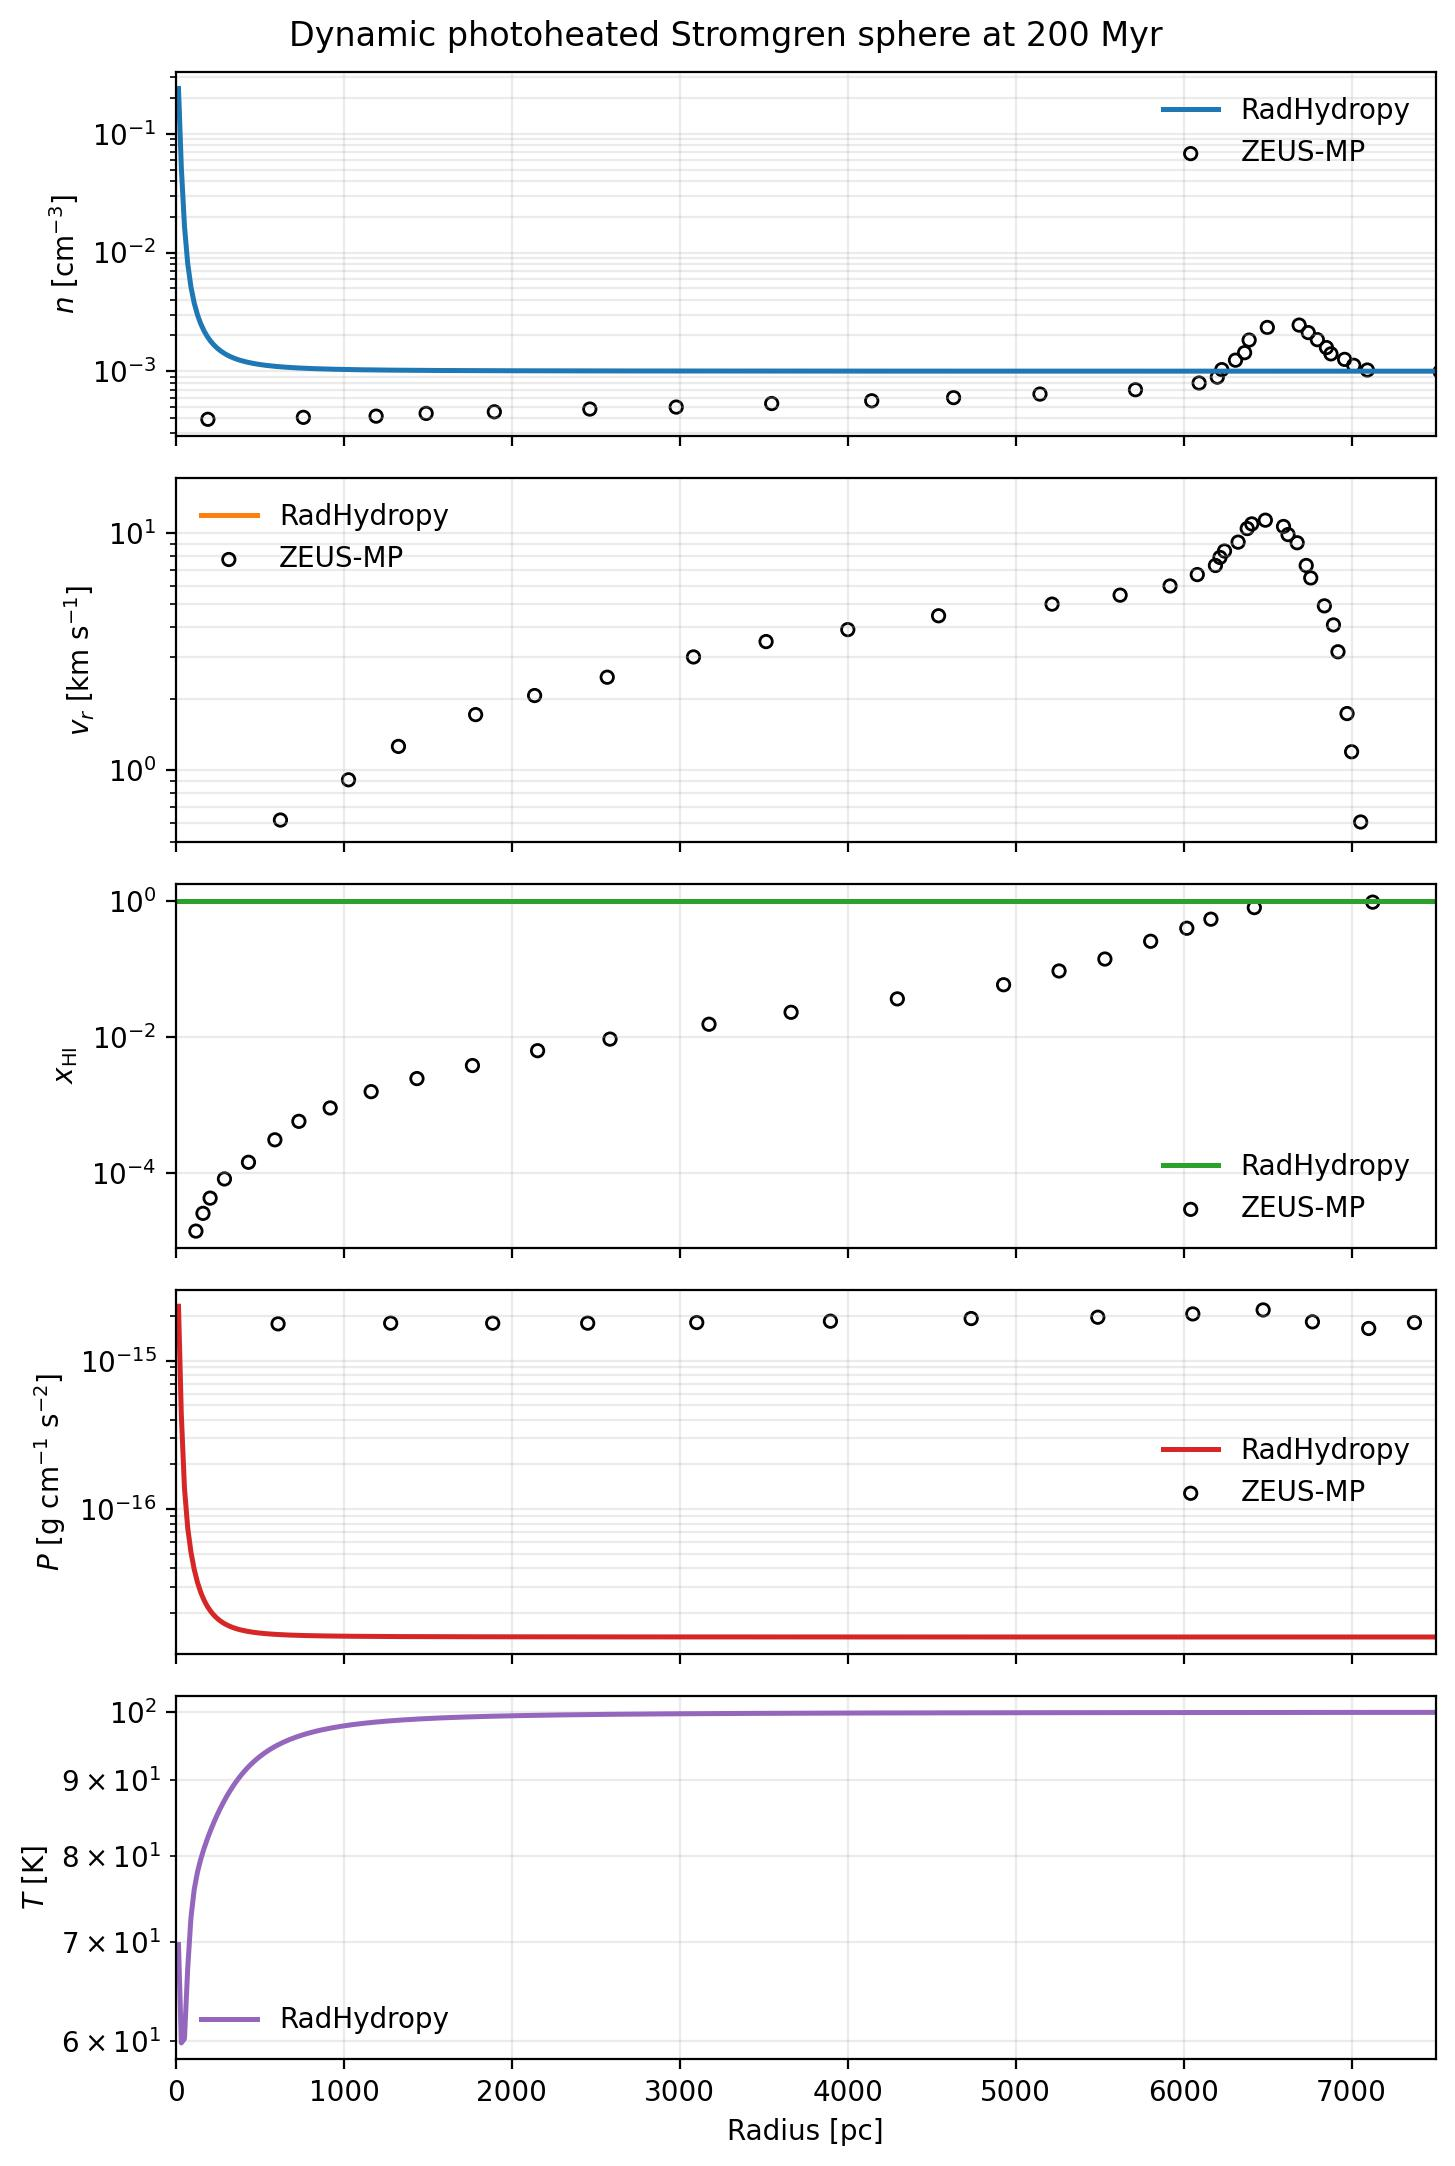
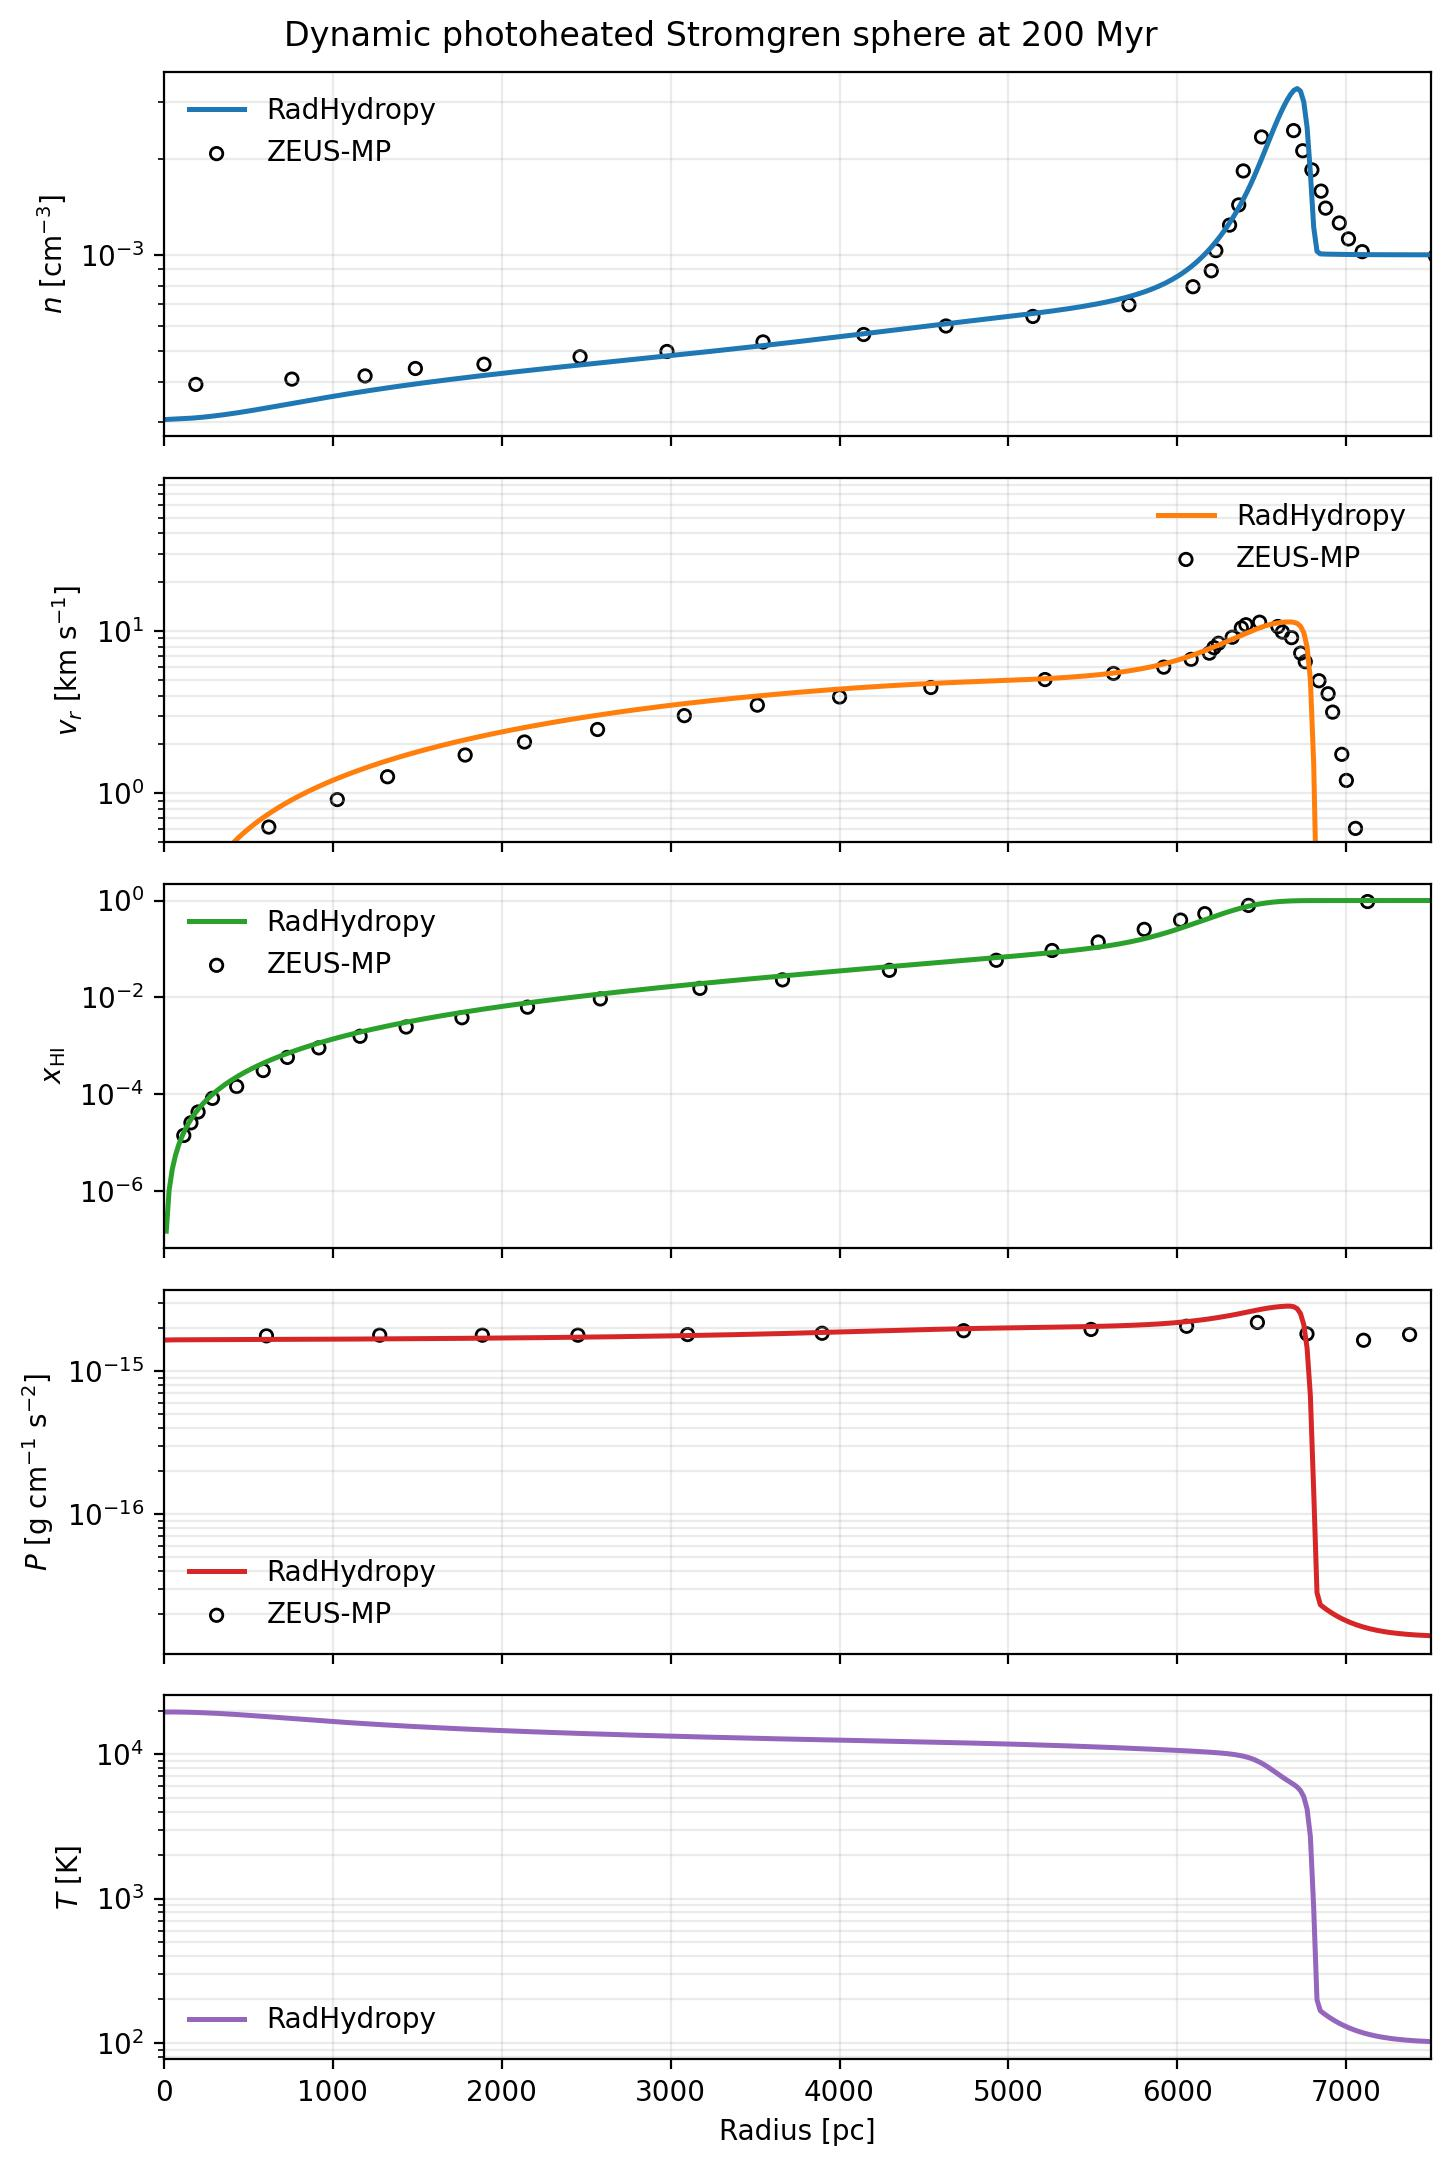
fix dynamic stromgren sphere. need more update in between

diff --git a/example/DynamicStromgrenSpherePhotoheating1D/tools.py b/example/DynamicStromgrenSpherePhotoheating1D/tools.py
@@ -3,7 +3,6 @@
 import glob
 import os
 from pathlib import Path
-from types import SimpleNamespace
 
 import matplotlib
 matplotlib.use('Agg')
@@ -12,17 +11,15 @@ import numpy as np
 import unyt
 import example_utils as eu
 
-from radhydropy.eos import EOS
-from radhydropy.fluid import Fluid
 import radhydropy.io as rio
-from radhydropy.mesh import Mesh
-from radhydropy.solver import Solver
 from radhydropy.runtime_fields import (
     FluidRuntimeState,
     MeshGeometryState,
     PROPER_RUNTIME_FIELDS,
 )
 from radhydropy.units import CodeUnits, code_quantity_to_cgs, quantity_to_value
+from radhydropy.rsim import Rsim
+from basic_hydro_utils import make_initial_condition
 
 IONIZATION_FRONT_NEUTRAL_FRACTION = 0.5
 
@@ -30,7 +27,7 @@ IONIZATION_FRONT_NEUTRAL_FRACTION = 0.5
 def _to_kpc(values, par):
     if hasattr(values, 'to_value'):
         return np.asarray(values.to_value(unyt.kpc), dtype=float)
-    code = getattr(par, 'CodeUnits', None)
+    code = getattr(getattr(par, 'units', None), 'CodeUnits', None)
     if code is None:
         return np.asarray(values, dtype=float)
     return np.asarray(
@@ -42,7 +39,7 @@ def _to_kpc(values, par):
 def _to_myr(values, par):
     if hasattr(values, 'to_value'):
         return np.asarray(values.to_value(unyt.Myr), dtype=float)
-    code = getattr(par, 'CodeUnits', None)
+    code = getattr(getattr(par, 'units', None), 'CodeUnits', None)
     if code is None:
         return np.asarray(values, dtype=float)
     return np.asarray(
@@ -54,7 +51,7 @@ def _to_myr(values, par):
 def _to_km_s(values, par):
     if hasattr(values, 'to_value'):
         return np.asarray(values.to_value(unyt.km / unyt.s), dtype=float)
-    code = getattr(par, 'CodeUnits', None)
+    code = getattr(getattr(par, 'units', None), 'CodeUnits', None)
     if code is None:
         return np.asarray(values, dtype=float)
     return np.asarray(
@@ -67,7 +64,7 @@ def _to_number_density(values, par):
     if hasattr(values, 'to_value'):
         density = np.asarray(values.to_value(unyt.g / unyt.cm**3), dtype=float)
         return density / (1.0 * unyt.mp).to_value(unyt.g)
-    code = getattr(par, 'CodeUnits', None)
+    code = getattr(getattr(par, 'units', None), 'CodeUnits', None)
     if code is None:
         return np.asarray(values, dtype=float)
     return np.asarray(
@@ -79,7 +76,7 @@ def _to_number_density(values, par):
 def _to_pressure(values, par):
     if hasattr(values, 'to_value'):
         return np.asarray(values.to_value(unyt.g / unyt.cm / unyt.s**2), dtype=float)
-    code = getattr(par, 'CodeUnits', None)
+    code = getattr(getattr(par, 'units', None), 'CodeUnits', None)
     if code is None:
         return np.asarray(values, dtype=float)
     return np.asarray(code_quantity_to_cgs(values, code, 'pressure_cgs_erg_cm3'), dtype=float)
@@ -88,7 +85,7 @@ def _to_pressure(values, par):
 def _to_temperature(values, par):
     if hasattr(values, 'to_value'):
         return np.asarray(values.to_value(unyt.K), dtype=float)
-    code = getattr(par, 'CodeUnits', None)
+    code = getattr(getattr(par, 'units', None), 'CodeUnits', None)
     if code is None:
         return np.asarray(values, dtype=float)
     return np.asarray(code_quantity_to_cgs(values, code, 'temperature_cgs_K'), dtype=float)
@@ -135,6 +132,51 @@ def _attach_proper_runtime_states(par, mesh, fluid):
 
 
 def build_static_problem(config):
+    """Build the proper-code IC using the configured ``Rsim`` object."""
+    par_config = config['par']
+    initial = config['initial_condition']
+    units = config['_code_units']
+    grid_cells = int(par_config['mesh']['grid_cells'])
+    box_size_proper_code = quantity_to_value(
+        initial['box_size'], units.length_unit
+    )
+    boundary_proper_code = np.linspace(0.0, box_size_proper_code, grid_cells + 1)
+    density_proper_code = np.full(
+        grid_cells,
+        quantity_to_value(
+            initial['hydrogen_number_density'] * unyt.mp,
+            units.density_unit,
+        ),
+    )
+    temperature_proper_code = np.full(
+        grid_cells,
+        quantity_to_value(initial['initial_temperature'], units.temperature_unit),
+    )
+    sim = make_initial_condition(
+        config, boundary_proper_code, density_proper_code,
+        np.zeros(grid_cells), temperature_proper_code,
+        np.ones(grid_cells),
+    )
+    radiation = par_config['radiation']
+    sim.fluid.xHI = np.ones(grid_cells)
+    sim.fluid.ngamma_code = np.full(
+        grid_cells,
+        quantity_to_value(radiation['hydrogen_ngamma_initial'], units.number_density_unit),
+    )
+    sim.fluid.SetFluidTime(0.0)
+    sim.fluid.runtime_state = FluidRuntimeState.from_arrays(
+        PROPER_RUNTIME_FIELDS,
+        density=sim.fluid.rho_proper_code,
+        velocity=sim.fluid.vel_proper_code,
+        pressure=sim.fluid.pre_proper_code,
+        temperature=sim.fluid.temp_proper_code,
+        time=sim.fluid.time_proper_code,
+        mu=sim.fluid.mu,
+        xHI=sim.fluid.xHI,
+    )
+    return sim
+
+    # Retained below only as historical context; unreachable legacy setup.
     par_config = config['par']
     simulation = par_config['simulation']
     mesh_config = par_config['mesh']
@@ -254,33 +296,42 @@ build_problem = build_static_problem
 
 def write_initial_condition(config):
     """Build and write the initial-condition snapshot."""
-    par, mesh, fluid, _ = build_static_problem(config)
-    sim = SimpleNamespace(par=par, mesh=mesh, fluid=fluid)
+    sim = build_static_problem(config)
     filename = config['par']['simulation']['initial_condition_filename']
     Path(filename).unlink(missing_ok=True)
     rio.writehdf5(sim, filename)
 
 
 def load_output_state(outputfilename, config):
-    par, mesh, fluid, _ = build_static_problem(config)
-    rio.readhdf5(par, mesh, fluid, outputfilename)
-    if getattr(par, 'noghost', 0) > 0:
-        mesh.boundary_proper_code = np.asarray(
-            mesh.boundary_proper_code[par.noghost : -par.noghost], dtype=float
-        )
-    mesh.SetUpMesh(par)
-    fluid.SetPressure()
-    return par, mesh, fluid
+    sim = Rsim(config['par'])
+    rio.readhdf5(sim.par, sim.mesh, sim.fluid, outputfilename)
+    # Output snapshots contain the canonical ghosted boundary array.  Rebuild
+    # the typed mesh geometry from its physical boundaries for diagnostics and
+    # plotting; the runtime runner performs this step during RunAll.
+    ghost_cells = int(sim.par.mesh.ghost_cells)
+    grid_cells = int(sim.par.mesh.grid_cells)
+    boundary = np.asarray(sim.mesh.boundary_proper_code, dtype=float)
+    if boundary.size == grid_cells + 1 + 2 * ghost_cells:
+        sim.mesh.boundary_proper_code = boundary[ghost_cells:-ghost_cells]
+        sim.SetMesh()
+    sim.fluid.SetPressure()
+    return sim.par, sim.mesh, sim.fluid
 
 
 def output_files(outdir, outfileprefix):
     pattern = os.path.join(outdir, f'{outfileprefix}_*.hdf5')
-    return sorted(glob.glob(pattern))
+    filenames = []
+    for filename in glob.glob(pattern):
+        stem = Path(filename).stem
+        suffix = stem[len(outfileprefix) + 1:]
+        if suffix.isdigit():
+            filenames.append(filename)
+    return sorted(filenames)
 
 
 def interior_slice(par):
-    first = par.noghost
-    return slice(first, first + par.nogrid)
+    first = int(par.mesh.ghost_cells)
+    return slice(first, first + int(par.mesh.grid_cells))
 
 
 def ionization_front_position(

diff --git a/radhydropy/thermo_networks/hydrogen.py b/radhydropy/thermo_networks/hydrogen.py
@@ -2014,18 +2014,35 @@ def _split_implicit_source_state_update(state, dt_s, par):
         state.get('active', np.asarray(state['rho_cgs_g_cm3']) > 0.0),
         dtype=bool,
     )
+    # Bring a state restored after a chemistry-only update onto the current
+    # ionization-dependent EOS/floor before measuring source changes.  This
+    # one-time normalization is part of state synchronization, not the trial
+    # source increment.
+    if state['hydrogen_update_mu']:
+        state['mu'] = rh.mean_molecular_weight_mu(
+            state['xHI'],
+            hydrogen_mass_fraction=state['hydrogen_mass_fraction'],
+        )
+    if state['thermal_coupling']:
+        _fast_update_temperature_from_energy(state)
     while remaining_s > 0.0:
         candidate_dt_s = min(trial_dt_s, remaining_s)
         while True:
             before = _copy_fast_source_state(state)
-            trial = _copy_fast_source_state(state)
-            if trial['hydrogen_update_mu']:
-                trial['mu'] = rh.mean_molecular_weight_mu(
-                    trial['xHI'],
-                    hydrogen_mass_fraction=trial['hydrogen_mass_fraction'],
+            # Normalize the comparison state before taking the trial.  A
+            # preceding chemistry update may have changed xHI (and hence mu)
+            # while leaving the conserved thermal energy unchanged.  Applying
+            # the temperature floor with the new mu then changes the stored
+            # energy once, but that normalization is not source evolution and
+            # must not be counted against the 10% trial limiter.
+            if before['hydrogen_update_mu']:
+                before['mu'] = rh.mean_molecular_weight_mu(
+                    before['xHI'],
+                    hydrogen_mass_fraction=before['hydrogen_mass_fraction'],
                 )
-            if trial['thermal_coupling']:
-                _fast_update_temperature_from_energy(trial)
+            if before['thermal_coupling']:
+                _fast_update_temperature_from_energy(before)
+            trial = _copy_fast_source_state(before)
             thermal_rate_value = None
             if trial['thermal_coupling']:
                 thermal_rate_value = thermal_rate(
@@ -2057,9 +2074,32 @@ def _split_implicit_source_state_update(state, dt_s, par):
                 trial.get('specific_energy_cgs_erg_g', trial['specific_total_energy_cgs_erg_g']),
                 dtype=float,
             )
+            # Ionization changes mu.  If that change would put a cell below
+            # the configured temperature floor, the post-chemistry
+            # synchronization injects the minimum floor energy.  That one-time
+            # EOS/floor normalization is not thermal source evolution and
+            # must not be rejected as a >10% source step.
+            limiter_baseline_energy = old_energy.copy()
+            temperature_floor = float(
+                trial.get('temperature_floor_cgs_K', 0.0) or 0.0
+            )
+            if trial['thermal_coupling'] and temperature_floor > 0.0:
+                floor_energy = (
+                    BOLTZMANN_CONSTANT_CGS * temperature_floor
+                    / (
+                        (trial['gamma'] - 1.0)
+                        * np.maximum(trial['mu'], 1.0e-99)
+                        * PROTON_MASS_CGS
+                    )
+                )
+                limiter_baseline_energy = np.maximum(
+                    limiter_baseline_energy, floor_energy
+                )
             with np.errstate(divide='ignore', invalid='ignore'):
-                relative_energy_change = np.abs(new_energy - old_energy) / np.maximum(
-                    np.abs(old_energy), 1.0e-30
+                relative_energy_change = np.abs(
+                    new_energy - limiter_baseline_energy
+                ) / np.maximum(
+                    np.abs(limiter_baseline_energy), 1.0e-30
                 )
             max_energy_change = float(
                 np.max(relative_energy_change[active]) if np.any(active) else 0.0
@@ -2073,6 +2113,18 @@ def _split_implicit_source_state_update(state, dt_s, par):
                 )
                 remaining_s -= candidate_dt_s
                 source_steps += 1
+                if (
+                    getattr(par, 'radiative_transfer', False)
+                    and getattr(
+                        par, 'radiative_transfer_temporal_scheme',
+                        'instantaneous',
+                    ) != 'c2ray'
+                ):
+                    # Reuse the shared transport conversion/path rather than
+                    # rebuilding photon-density units and boundary rates here.
+                    state['ngamma_cgs_cm3'] = rrt.trace_photon_density(
+                        state, par
+                    )
                 if source_steps > max_subcycles:
                     raise RuntimeError(
                         'split-implicit hydrogen source update exceeded '

diff --git a/radhydropy/diagnostics.py b/radhydropy/diagnostics.py
@@ -137,10 +137,15 @@ def check_conserved_energy_admissibility(
     kinetic[positive_mass] = (
         0.5 * momentum[positive_mass]**2 / mass[positive_mass]
     )
-    scale = np.maximum(
-        np.maximum(kinetic, np.abs(energy)), np.finfo(float).tiny
+    configured_energy_floor = max(
+        0.0, float(np.asarray(getattr(par, 'positivity_energy_floor', 0.0)))
     )
-    deficit = kinetic - energy
+    energy_floor = configured_energy_floor * np.maximum(volume, 0.0)
+    admissible_energy = np.maximum(energy, energy_floor)
+    scale = np.maximum(
+        np.maximum(kinetic, np.abs(admissible_energy)), np.finfo(float).tiny
+    )
+    deficit = kinetic - admissible_energy
     invalid = positive_mass & (
         deficit > float(relative_tolerance) * scale
     )

diff --git a/example/basic_hydro_utils.py b/example/basic_hydro_utils.py
@@ -52,7 +52,11 @@ def make_initial_condition(config, boundary, rho, velocity, temperature, mu, are
     first = int(sim.par.mesh.ghost_cells)
     last = first + grid_cells
     sim.mesh.boundary_proper_code = as_named_array(sim.mesh.boundary_proper_code[first:last + 1])
-    for field in ("rho_proper_code", "vel_proper_code", "temp_proper_code", "mu", "Energy_code", "InternalEnergy_code"):
+    for field in (
+        "rho_proper_code", "vel_proper_code", "temp_proper_code", "mu",
+        "Mass_code", "Mom_code", "AngularMomentum_code", "Energy_code",
+        "InternalEnergy_code",
+    ):
         if hasattr(sim.fluid, field):
             setattr(sim.fluid, field, as_named_array(getattr(sim.fluid, field)[first:last]))
     sim.par.mesh.ghost_cells = 0

diff --git a/example/DynamicStromgrenSpherePhotoheating1D/dynamic_stromgren_sphere_photoheating1d.py b/example/DynamicStromgrenSpherePhotoheating1D/dynamic_stromgren_sphere_photoheating1d.py
@@ -26,6 +26,7 @@ os.environ.setdefault('XDG_CACHE_HOME', cache_dir)
 os.environ.setdefault('MPLCONFIGDIR', mplconfig_dir)
 
 from radhydropy.rsim import Rsim
+from radhydropy.units import CodeUnits
 import example_utils as eu
 import tools as et
 
@@ -42,6 +43,9 @@ def main(config_filename=DEFAULT_CONFIG):
     runtime_params = config['par']
     output = runtime_params['output']
     example = config.get('example', {})
+    config['_code_units'] = CodeUnits.from_mapping(
+        runtime_params['units']['CodeUnits']
+    )
 
     Path(output['directory']).mkdir(parents=True, exist_ok=True)
     Path(output['savedir']).mkdir(parents=True, exist_ok=True)

diff --git a/radhydropy/params.py b/radhydropy/params.py
@@ -624,6 +624,7 @@ class Par:
                 'flux_limiter': 'flux_limiter',
                 'positivity_preserving': 'positivity_preserving',
                 'positivity_density_floor': 'positivity_density_floor',
+                'positivity_energy_floor': 'positivity_energy_floor',
                 'dual_energy': 'dual_energy',
                 'boundary_mass_loading_timestep': 'boundary_mass_loading_timestep',
                 'dual_energy_eta1': 'dual_energy_eta1',
